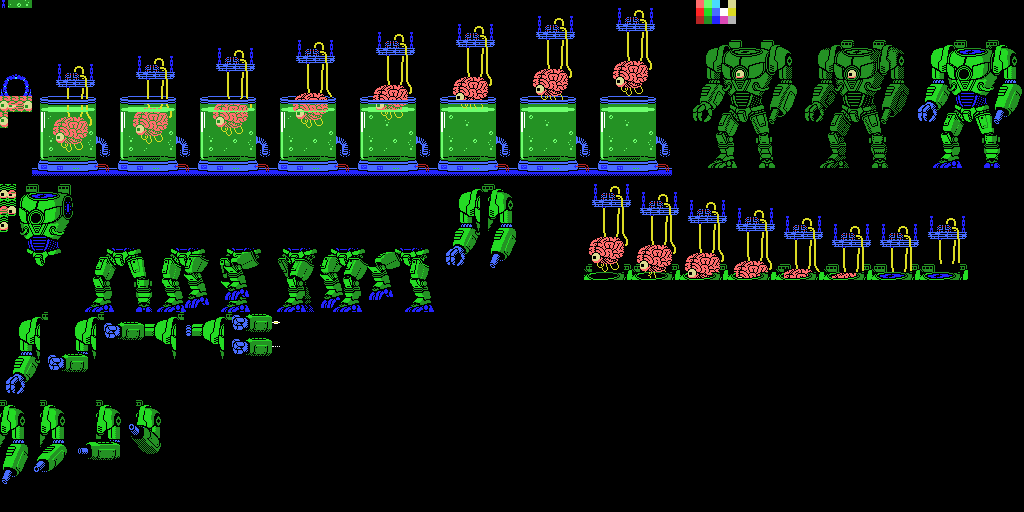
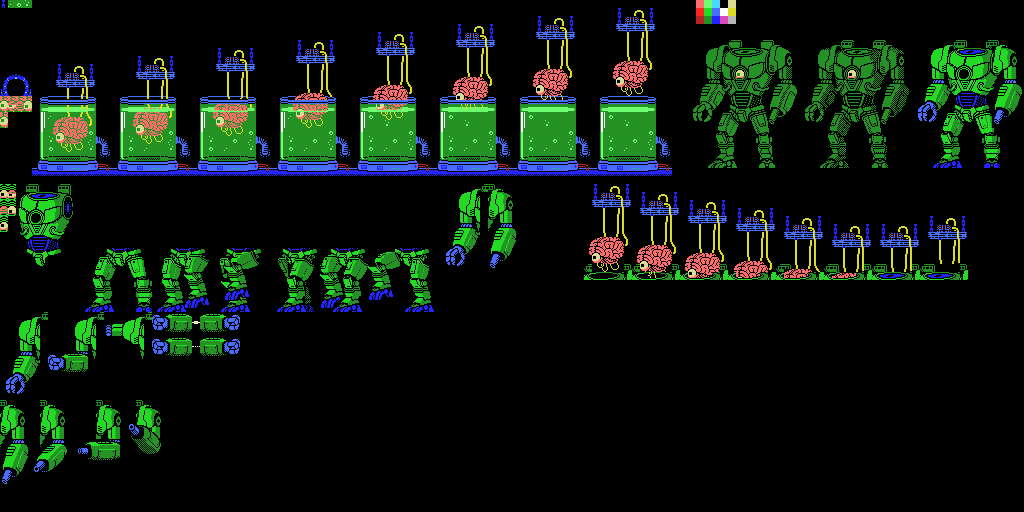
started work on the left-arm attack of boss 8

Changed region(s): [[0.0938, 0.5938, 0.2812, 0.7188]]

diff --git a/java/src/xspelunker2/Bosses.java b/java/src/xspelunker2/Bosses.java
@@ -1218,7 +1218,12 @@ public class Bosses {
         // left arm:
         addNameTable(nametables_phase1b_12.get(1), 53, 0, 59, 9, nameTableData);
         addNameTable(nametables_phase2_3.get(0), 55, 0, 61, 2, nameTableData);  // base position (6x11) [two parts]        
-        // ...
+        addNameTable(nametables_phase2_12a.get(1), 6, 0, 13, 8, nameTableData);  // left arm 1 (7x8)
+        addNameTable(nametables_phase2_12a.get(1), 13, 0, 19, 6, nameTableData);  // left arm 2 (6x6)
+        addNameTable(nametables_phase2_12a.get(1), 19, 0, 25, 3, nameTableData);  // fist left 1 (6x3)
+        addNameTable(nametables_phase2_12a.get(1), 19, 3, 25, 6, nameTableData);  // fist left 2 (6x3)
+        addNameTable(nametables_phase2_12a.get(1), 24, 0, 30, 3, nameTableData);  // fist right 1 (6x3)
+        addNameTable(nametables_phase2_12a.get(1), 24, 3, 30, 6, nameTableData);  // fist right 2 (6x3)
         // right arm:
         addNameTable(nametables_phase1b_12.get(1), 59, 0, 63, 9, nameTableData);
         addNameTable(nametables_phase2_3.get(0), 61, 0, 65, 2, nameTableData);  // base position (4x11) [two parts]        
